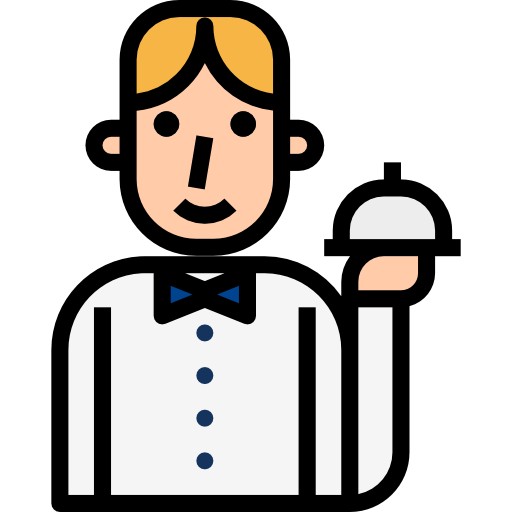
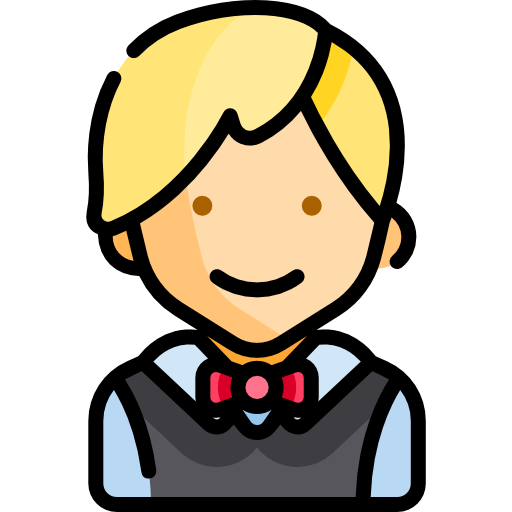
replaced james image

diff --git a/README.md b/README.md
@@ -6,6 +6,12 @@
     This is James
 </p>
 
+<p align="center">
+  <img alt="James" src="https://img.shields.io/github/last-commit/simonmilz/james.svg">
+  <img alt="James" src="https://img.shields.io/github/languages/code-size/simonmilz/james.svg">
+  <img alt="James" src="https://img.shields.io/github/languages/top/simonmilz/james.svg">
+</p>
+
 ---
 
 ## Why?
